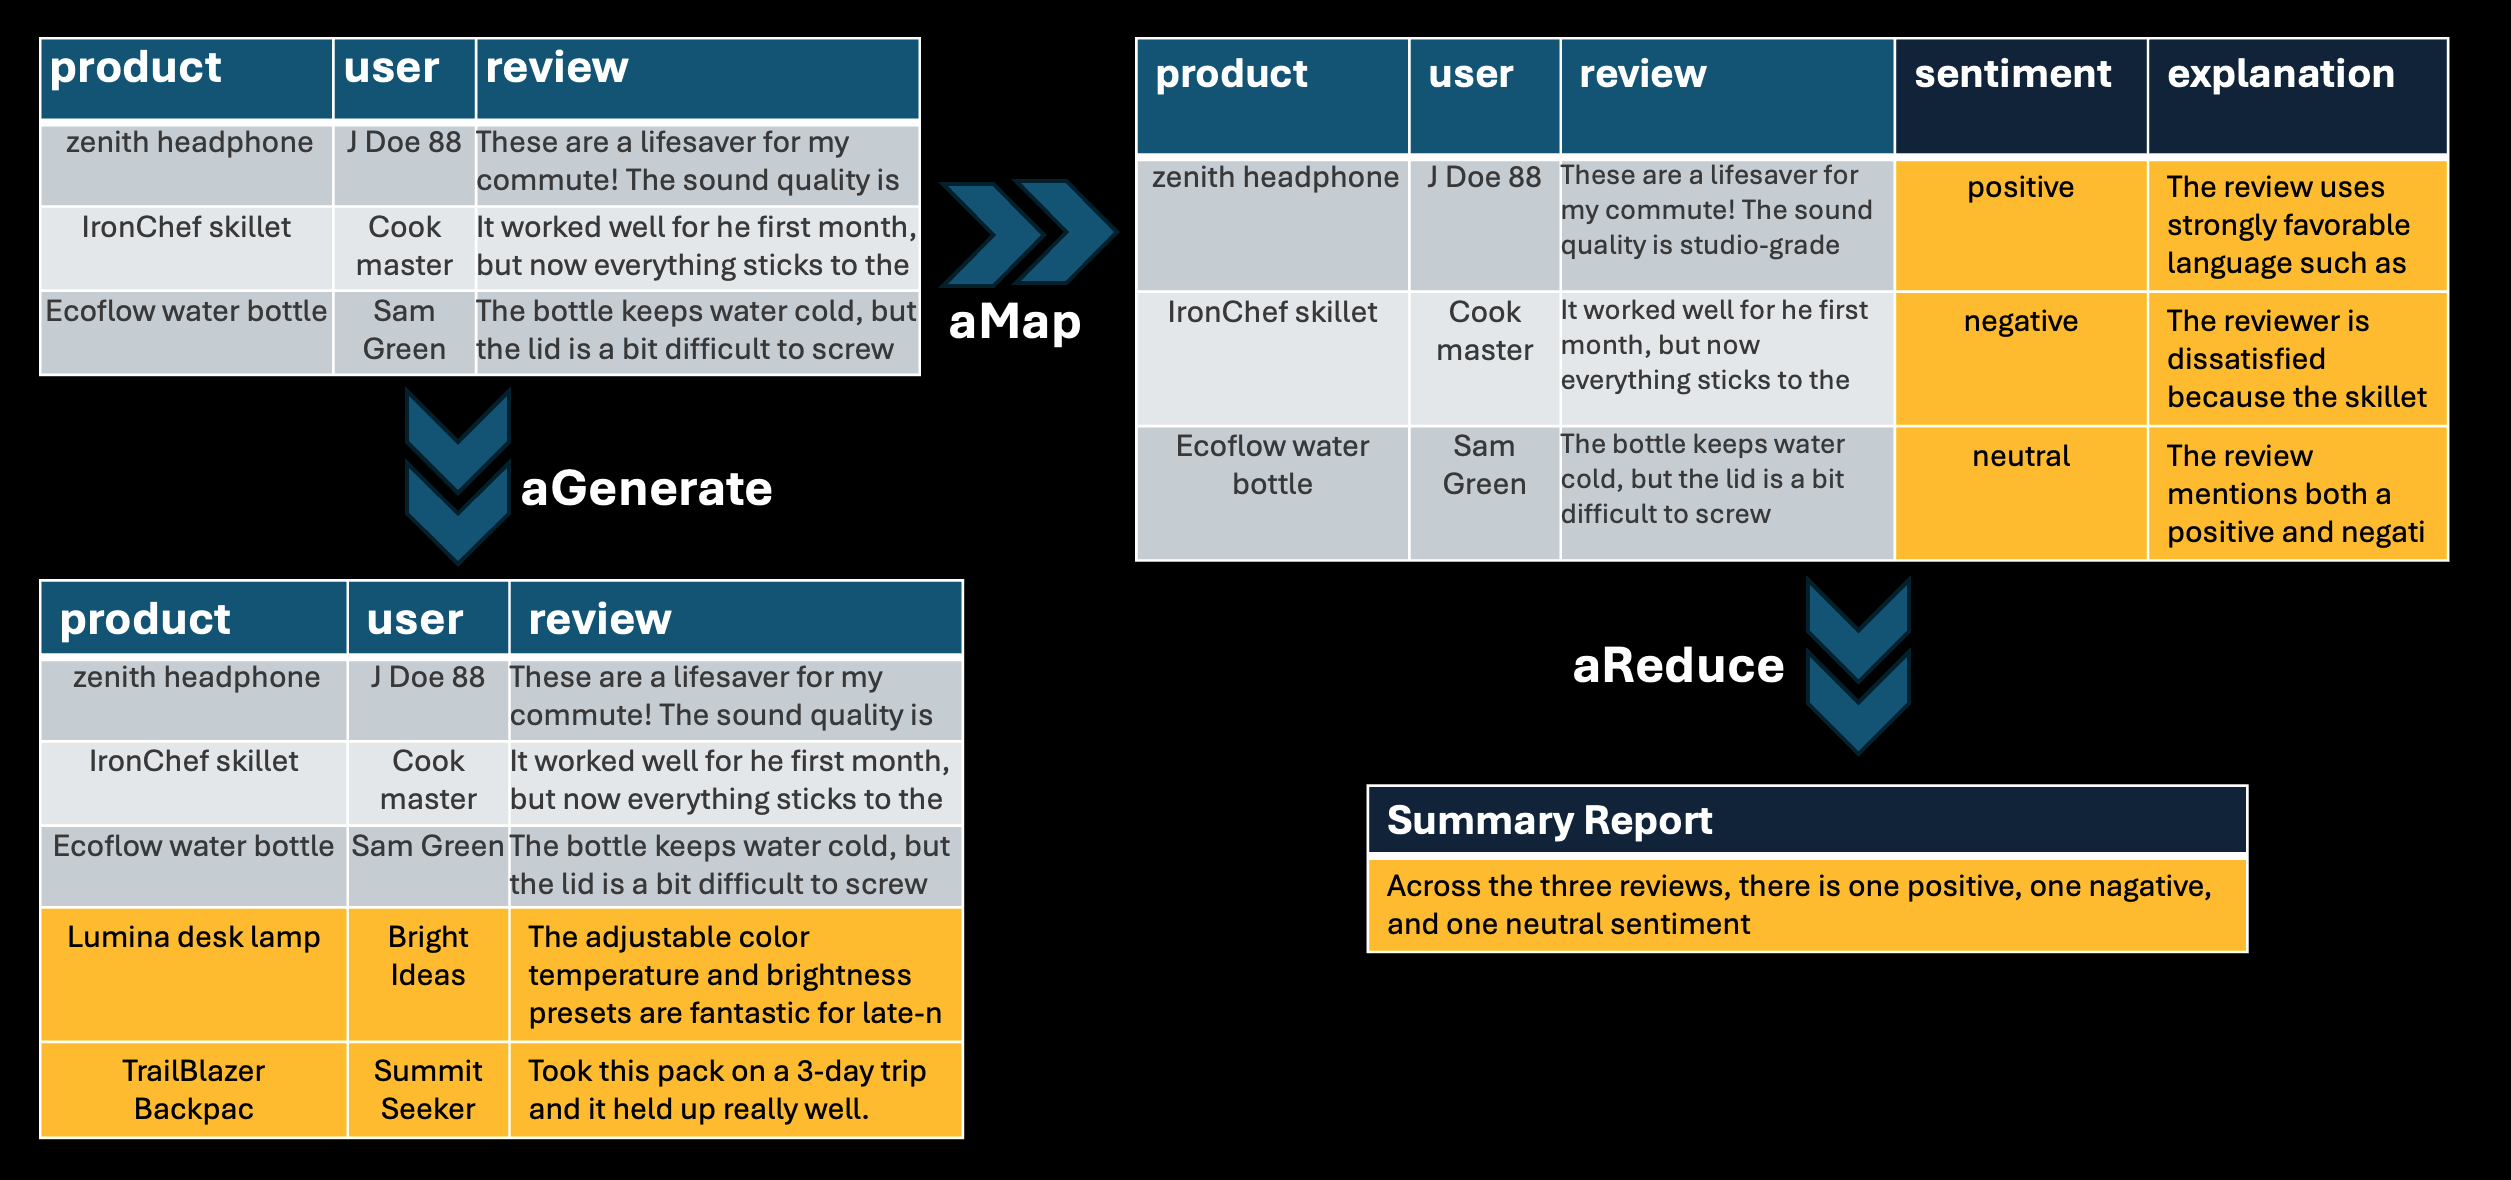
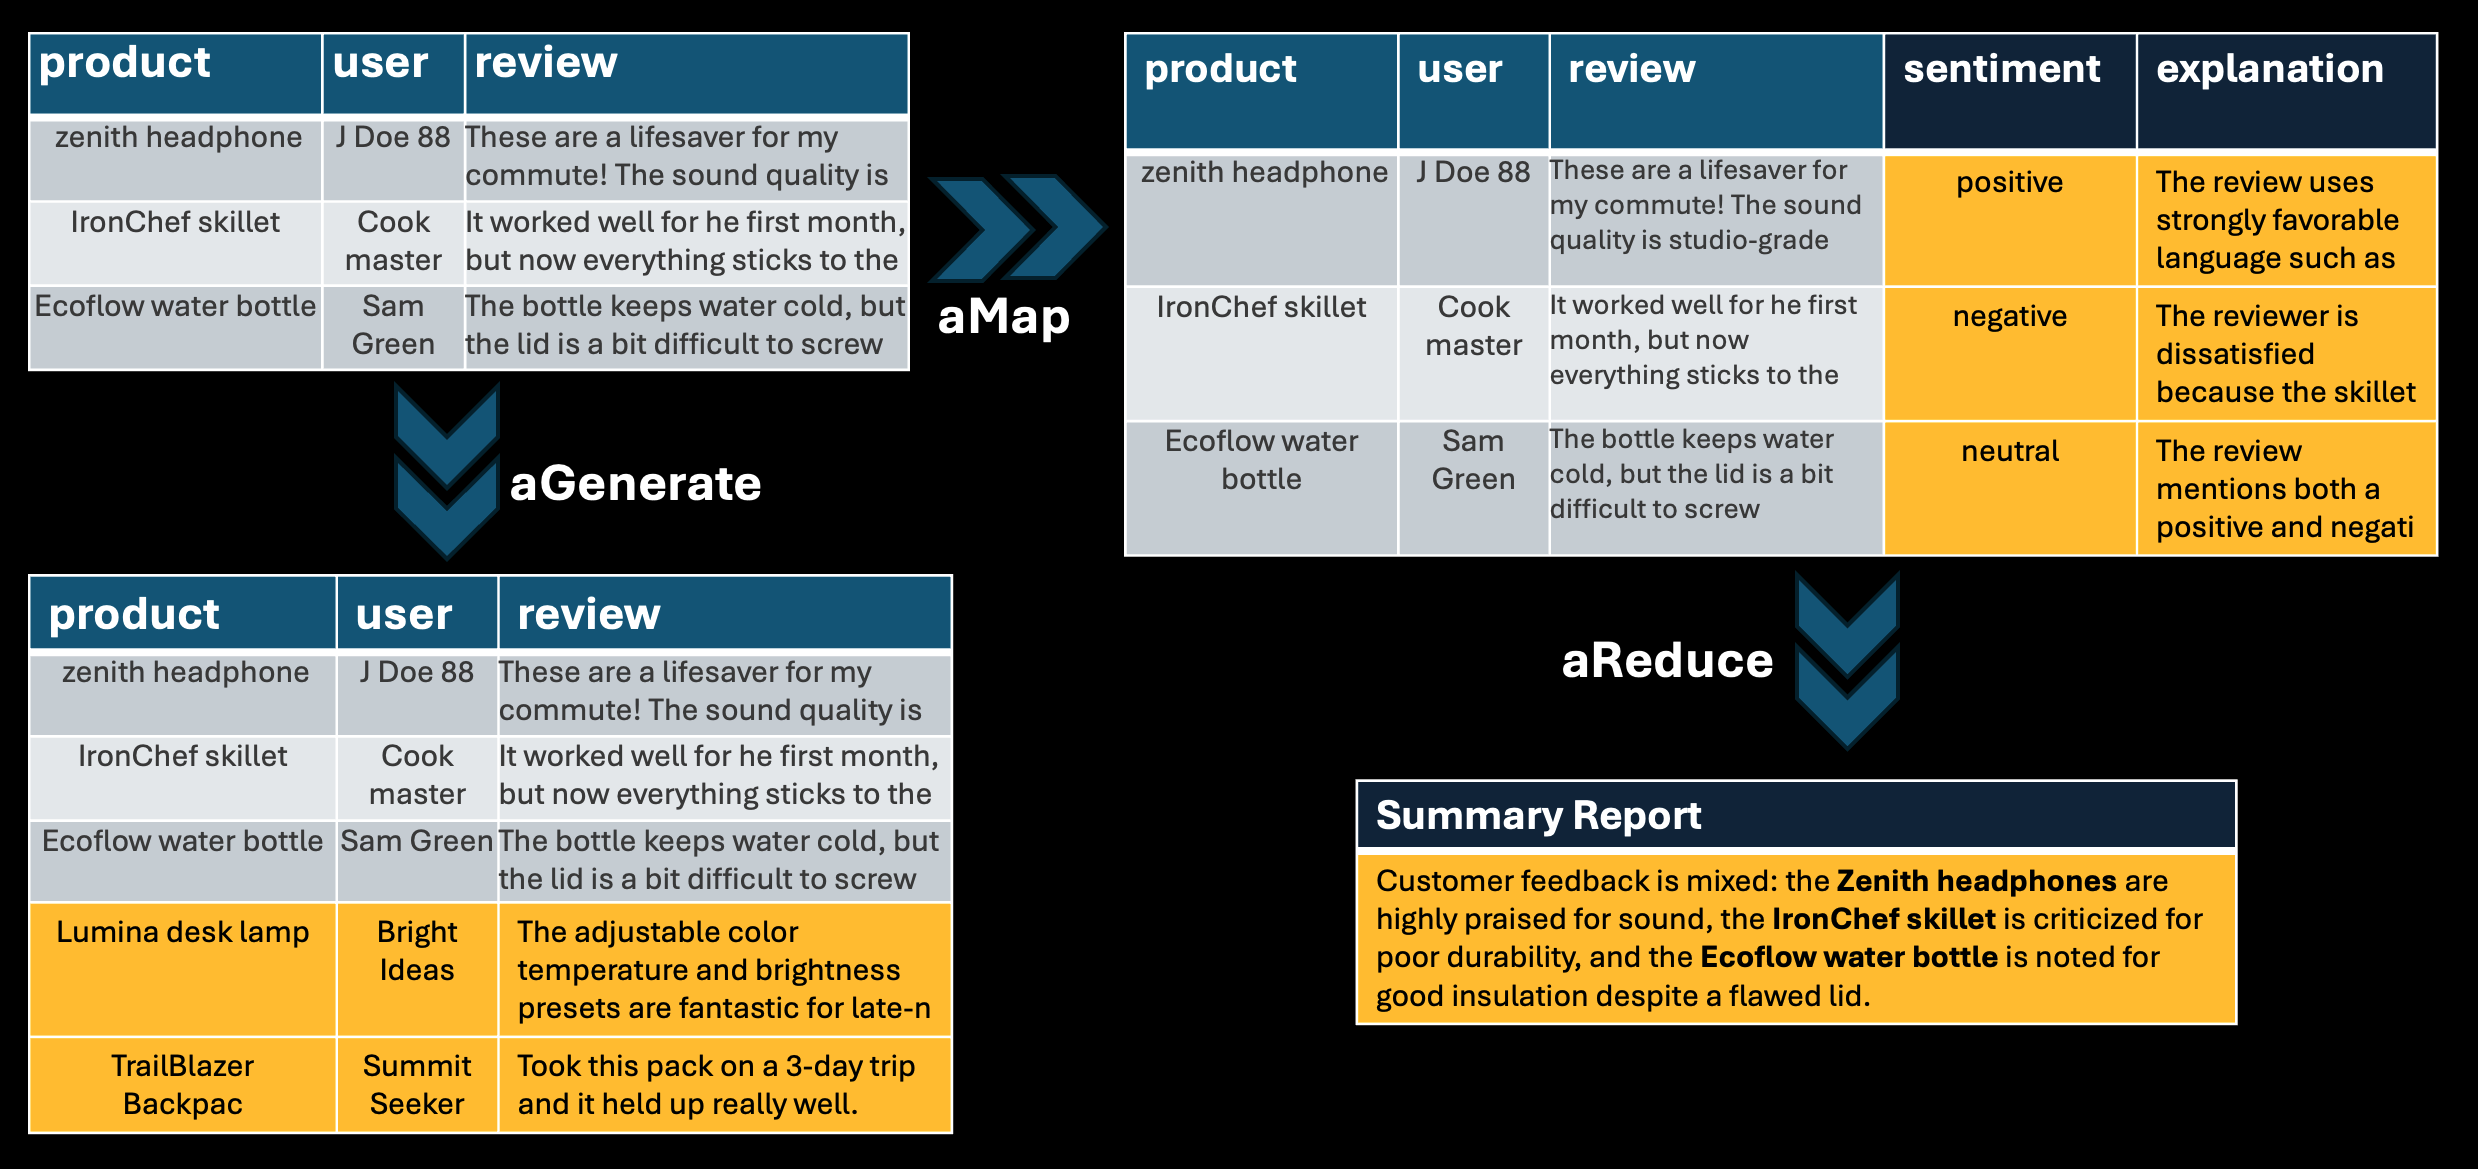
update blog; based on feedback

Changed region(s): [[0.0, 0.0, 0.9944, 0.9855]]

diff --git a/blog/technical_deep_dive.md b/blog/technical_deep_dive.md
@@ -1,6 +1,6 @@
 # Transform Tabular Data with LLMs using Agentics Bundle in Langflow
 
-*Written by [Author Name] · [Date]*
+*Written by Alfio Gliozzo, Junkyu Lee, Nandana Mihindukulasooriya*
 
 ---
 Langflow 1.8 ships with the **Agentics bundle**, three new components that bring LLM-powered tabular data transformation directly into the visual flow builder. 
@@ -21,7 +21,7 @@ It batches rows asynchronously for high throughput, enforces structured output w
 <p align="center">
   <img src="imgs/three_components.png" alt="Agentics Components" width="85%" />
   <br>
-  <em>Agentics Components: aMAP, aReduce, and aGenreate</em>
+  <em>Agentics Components: aMap, aReduce, and aGenerate</em>
 </p>
 
 Agentics provides a unified abstraction layer over LLM‑based inference, turning raw model calls into typed, and batched transductions. 
@@ -144,12 +144,21 @@ the first step is transforming each review with structured sentiment data.
 - Add an **aMap** component from the Agentics bundle (found under Bundles in Langflow)
 - Define a schema with three new columns:
   - `sentiment_label` (string): "positive", "negative", or "neutral"
-  - `sentiment_score` (float): Confidence score from 0 to 1
+  - `confidence_score` (float): Confidence score from 0 to 1
   - `explanation` (string): Brief reasoning for the sentiment classification
 - Provide an instruction to guide the LLM:
 ```
-"Analyze the sentiment of review summary and text fields
-and generate the sentiment label, score, and explanation."
+# Task Description
+Perform sentiment analysis task on the input data.
+Examine summary and text field,
+if the sentiment is good then sentiment label is positive.
+if the sentiment is bad then sentiment label is negative.
+if the sentiment is neither good or bad then sentiment label is neutral.
+
+## Constraint
+* The sentiment label must take values **positive**, **negative**, **neutral**. No other labels are allowed, such as good, bad, mixed, etc.
+* Confidence score is the degree of confidence that the assigned sentiment value is truthful. Generate floating point number between 0 and 1.0. 0 indicates no confidence at all, and 1.0 indicates absolutely confident. The sentiment score must be greater than equal to 0 and less than or equal to 1.0.
+* Explanation gives the support why the sentiment value was assigned from the input summary and text field.
 ```
 
 The aMap component processes each review row independently using parallel agents. Instead of writing custom parsing logic, you define the schema in the UI, and Agentics:
@@ -206,8 +215,8 @@ This report provides the product team with clear, data-driven insights derived f
 For positive reviews, we generate structured data for an advertising campaign.
 - Add another **aReduce** component for positive reviews
 - Define a richer schema:
-  - `google ad title` (string): Catchy advertisement headline
-  - `google ad text` (string): Compelling ad copy
+  - `ad_title` (string): Catchy advertisement headline
+  - `ad_text` (string): Compelling ad copy
   - `positive keywords` (list): positive keywords
   - `negative keywords` (list): negative keywords
   - `target audience` (string): target audience
@@ -247,8 +256,7 @@ This workflow demonstrates the core strengths of the Agentics bundle:
 
 ## Conclusion
 
-The Agentics bundle in Langflow 1.8 makes LLM-powered tabular data transformation a first-class citizen in the visual flow builder. Langflow with the three Agentics components — **aMap**, **aReduce**, and **aGenerate** — cover the full lifecycle of structured data work: enriching rows, aggregating insights, and synthesizing new data.
-
+The Agentics bundle in Langflow 1.8 makes LLM-powered tabular data transformation a first-class citizen in the visual flow builder. 
 
 With Agentics, you move beyond ad‑hoc “prompt and parse” experiments into a stable, scalable pattern for real LLM‑driven data workflows. 
 Langflow with the three Agentics components — **aMap**, **aReduce**, and **aGenerate** — cover the full lifecycle of structured data work: enriching rows, aggregating insights, and synthesizing new data.
